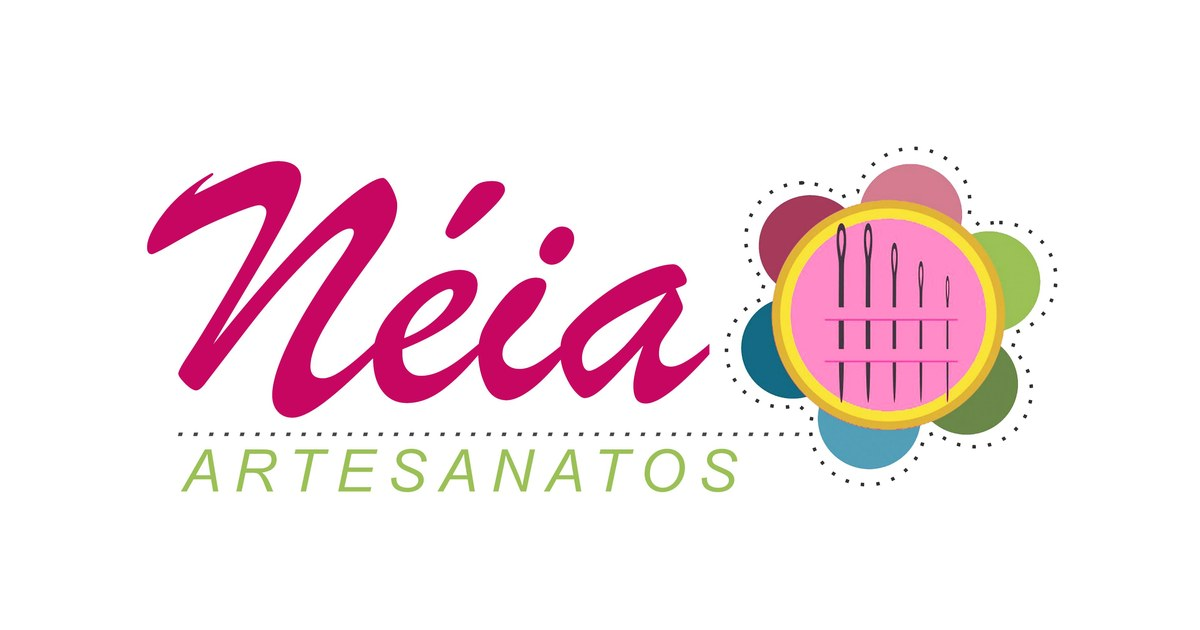
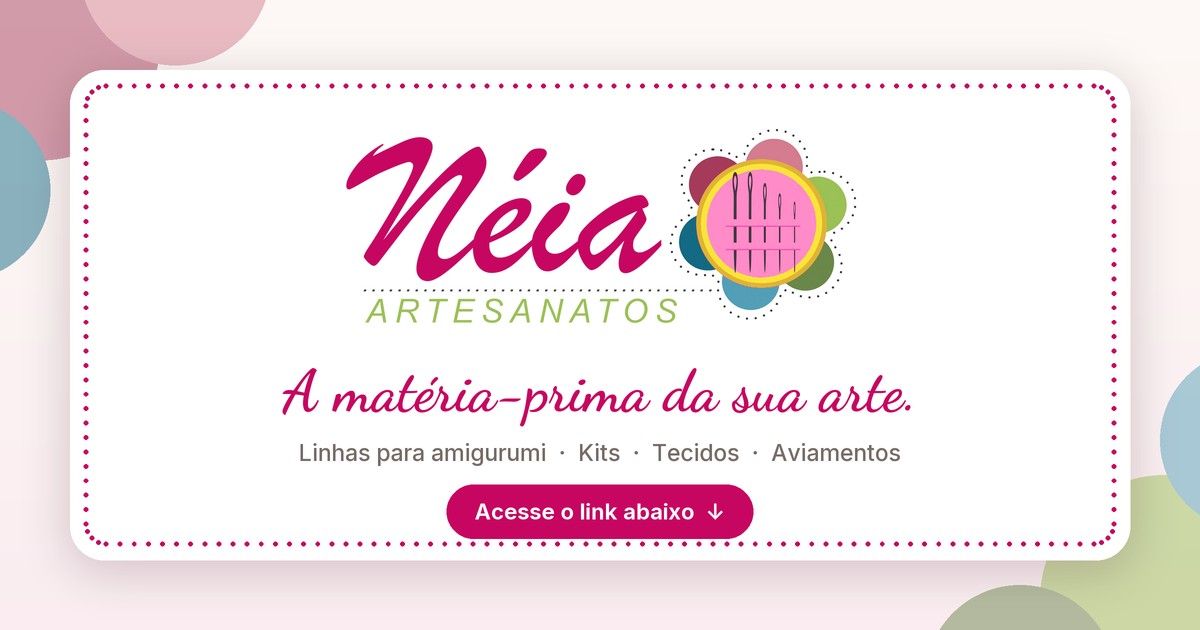
feat: redesign link preview image as a business card

diff --git a/index.html b/index.html
@@ -13,7 +13,7 @@
 <meta property="og:title" content="Néia Artesanatos">
 <meta property="og:description" content="A matéria-prima da sua arte. Linhas para amigurumi, kits, tecidos e aviamentos.">
 <meta property="og:url" content="https://neiartesanato.github.io/social-media-link/">
-<meta property="og:image" content="https://neiartesanato.github.io/social-media-link/og-image.jpg">
+<meta property="og:image" content="https://neiartesanato.github.io/social-media-link/og-image.jpg?v=2">
 <meta property="og:image:type" content="image/jpeg">
 <meta property="og:image:width" content="1200">
 <meta property="og:image:height" content="630">
